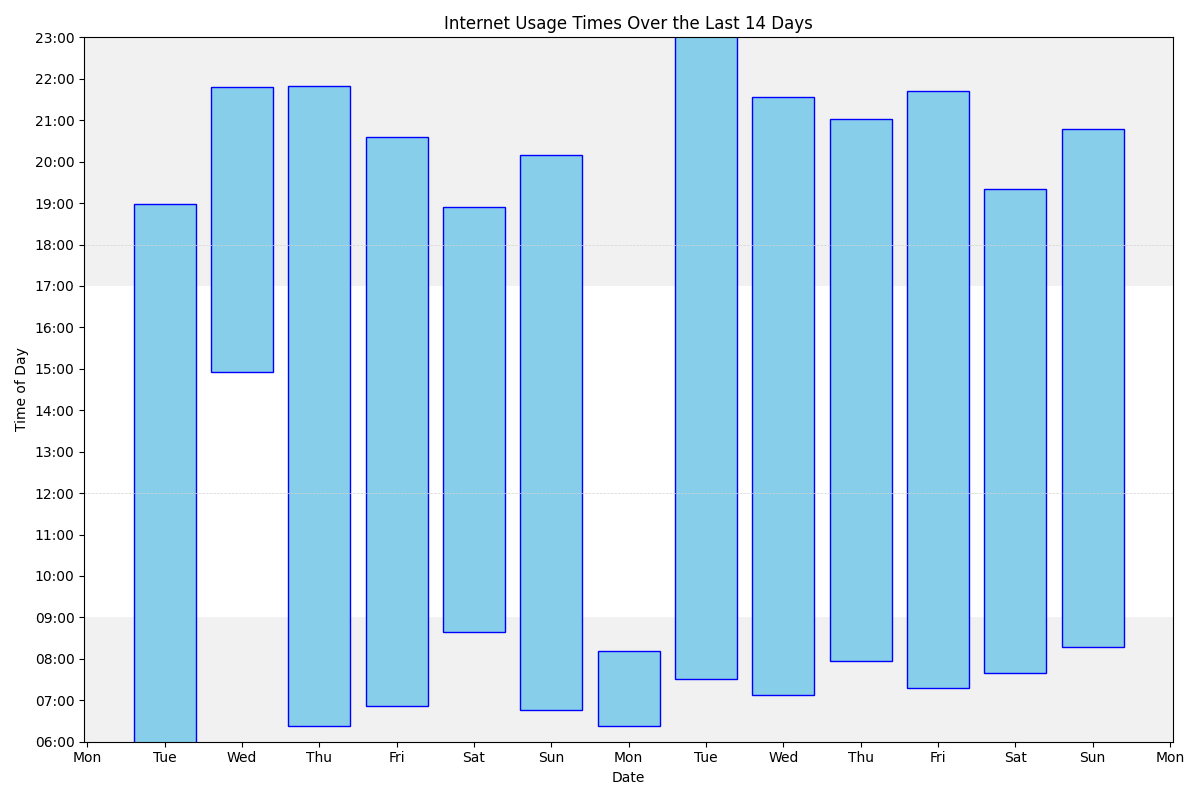
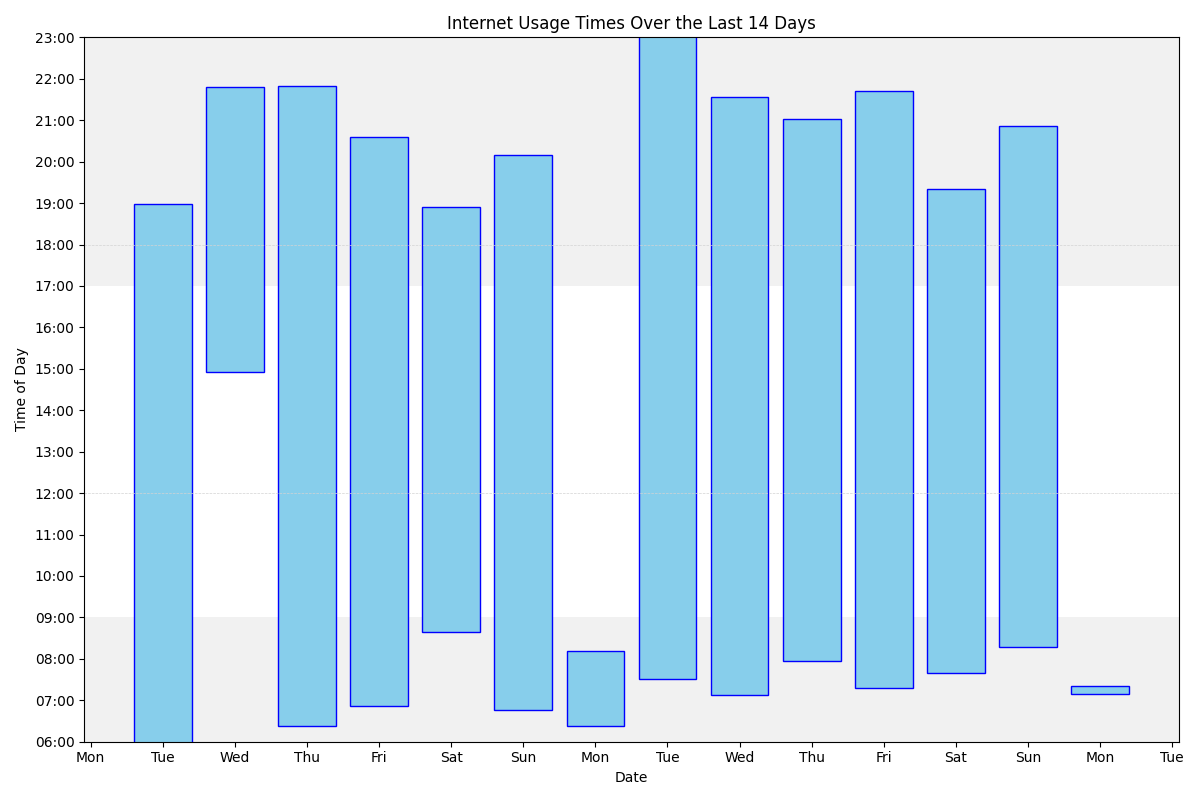
Update

diff --git a/index.md b/index.md
@@ -68,24 +68,24 @@ ul>li::after {
 <h3> Most common sites</h3>
 With number of accesses/minutes in parentheses
 
-<ol><li>www.google.com (2026)</li>
-<li>outlook.office365.com (1045)</li>
-<li>bsky.app (1039)</li>
+<ol><li>www.google.com (2027)</li>
+<li>outlook.office365.com (1046)</li>
+<li>bsky.app (1040)</li>
 <li>mail.google.com (923)</li>
-<li>outlook.office.com (896)</li>
+<li>outlook.office.com (898)</li>
 <li>docs.google.com (842)</li>
-<li>www.facebook.com (579)</li>
+<li>www.facebook.com (582)</li>
 <li>rhul-my.sharepoint.com (298)</li>
 <li>chatgpt.com (290)</li>
 <li>www.reddit.com (286)</li>
 <li>www.amazon.co.uk (274)</li>
 <li>moodle.royalholloway.ac.uk (262)</li>
+<li>www.linkedin.com (250)</li>
 <li>calendar.google.com (249)</li>
-<li>www.linkedin.com (249)</li>
 <li>github.com (246)</li>
-<li>login.microsoftonline.com (232)</li>
+<li>login.microsoftonline.com (233)</li>
 <li>fritz.box (201)</li>
-<li>www.coursera.org (169)</li>
+<li>www.coursera.org (170)</li>
 <li>forms.office.com (138)</li>
 <li>ev.turnitinuk.com (126)</li>
 <li>drive.google.com (114)</li>
@@ -104,11 +104,35 @@ With number of accesses/minutes in parentheses
 
 <ul></ul>
 
+<H3>Monday, 27/01/25</H3>
+
+<br>
+
+<ul><li> 07:21 www.google.com</li>
+<li> 07:19 <a href="https://joereddington.com/todo.txt/">Joe’s Todo List</a></li>
+<li> 07:18 www.linkedin.com</li>
+<li> 07:18 www.facebook.com</li>
+<li class='same'> 07:17 www.facebook.com</li>
+<li class='same'> 07:16 www.facebook.com</li>
+<li> 07:16 outlook.office.com</li>
+<li> 07:14 samcurry.net</li>
+<li> 07:14 www.coursera.org</li>
+<li> 07:13 outlook.office.com</li>
+<li> 07:13 outlook.office365.com</li>
+<li> 07:13 login.microsoftonline.com</li>
+<li> 07:09 bsky.app</li>
+</ul>
+
 <H3>Sunday, 26/01/25</H3>
 
 <br>
 
-<ul><li> 20:47 <a href="https://en.wikipedia.org/wiki/Kit_Culkin">Kit Culkin - Wikipedia</a></li>
+<ul></ul>
+
+<br>
+
+<ul><li> 20:51 <a href="https://en.wikipedia.org/wiki/Main_Page">Wikipedia, the free encyclopedia</a></li>
+<li> 20:47 <a href="https://en.wikipedia.org/wiki/Kit_Culkin">Kit Culkin - Wikipedia</a></li>
 <li> 20:47 <a href="https://en.wikipedia.org/wiki/Macaulay_Culkin">Macaulay Culkin - Wikipedia</a></li>
 <li> 20:47 www.google.com</li>
 <li> 20:46 tvtropes.org</li>
